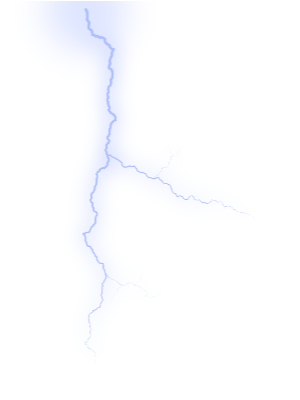
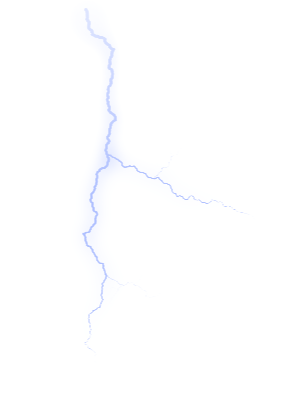
Improoved flying leaves and lightnings. Uploaded settings-file with big resolution arguments.

Changed region(s): [[0.18, 0.0, 0.39, 0.21]]

diff --git a/src/World/Environ/Leaves.cpp b/src/World/Environ/Leaves.cpp
@@ -25,10 +25,20 @@ void Leaves::processLeaves(CL_GraphicContext &gc, float windPower, int i)
     mLeaves[i].animation = false;
 
     // Where to create new leaf (refers to the wind blowing direction)
-    if (windPower < 0)
-        mLeaves[i].x = mWindowWidth;
+    if (mFirstTime)
+    {
+        mLeaves[i].x = rand() % mWindowWidth;
+        mLeaves[i].timeout = 0;
+    }
     else
-        mLeaves[i].x = 0;
+    {
+        if (windPower < 0)
+            mLeaves[i].x = mWindowWidth;
+        else
+            mLeaves[i].x = 0;
+
+        mLeaves[i].timeout = rand() % 250;
+    }
 
     // The height where new leaf will be located
     mLeaves[i].y = mWindowHeight - mWindowHeight*((rand()%6+2)/10.0);
@@ -38,16 +48,16 @@ void Leaves::processLeaves(CL_GraphicContext &gc, float windPower, int i)
     mLeaves[i].k2 = (rand() % 7 + 3) / 10.0;
 
     // Load some random leaf surface
-    mLeaves[i].leafType = rand()%4;
-    mLeaves[i].imageHandle = CL_Sprite(gc, cl_format("media/leaves/%1.png", mLeaves[i].leafType));
-
-    mLeaves[i].timeout = rand() % 300;
+    int size = resourceManager().sectionHandle("Leaves").get_child_nodes().get_length();
+    mLeaves[i].leafType = rand() % size;
+    mLeaves[i].imageHandle = CL_Sprite(gc,
+            resourceManager().texturePath("Leaves", boost::lexical_cast<std::string>(mLeaves[i].leafType)));
 
     // Rotate leaf surface at some random angle
     int angle = rand() % 360 + 1;
     mLeaves[i].imageHandle.set_angle(CL_Angle::from_degrees(angle));
 
-    mLeaves[i].speed_koef = rand()%45 + 50;
+    mLeaves[i].speed_koef = rand()%70 + 50;
 }
 
 Leaves::Leaves(int maxLeaves)

diff --git a/src/World/Environ/Lightnings.cpp b/src/World/Environ/Lightnings.cpp
@@ -37,9 +37,10 @@ void Lightnings::update(float windPower, float elapsed, float globalTime)
         }
     }
 
-    if (mAnimation && mTimer <= 700.0f)
+    if (mAnimation && mTimer <= 900.0f)
     {
         mTimer += elapsed * 1000.0f;
+        mLightningImages[mHandle].set_alpha(0.8);
         mLightningImages[mHandle].draw(mGC, mPosition.x, mPosition.y);
     }
     else

diff --git a/include/World/Environ/Leaves.hpp b/include/World/Environ/Leaves.hpp
@@ -12,6 +12,7 @@
 
 #include "Core/Utils.hpp"
 #include "Core/ApplicationManager.hpp"
+#include "Core/ResourceManager.hpp"
 #include "World/Environ/Object.hpp"
 
 struct LeafData
